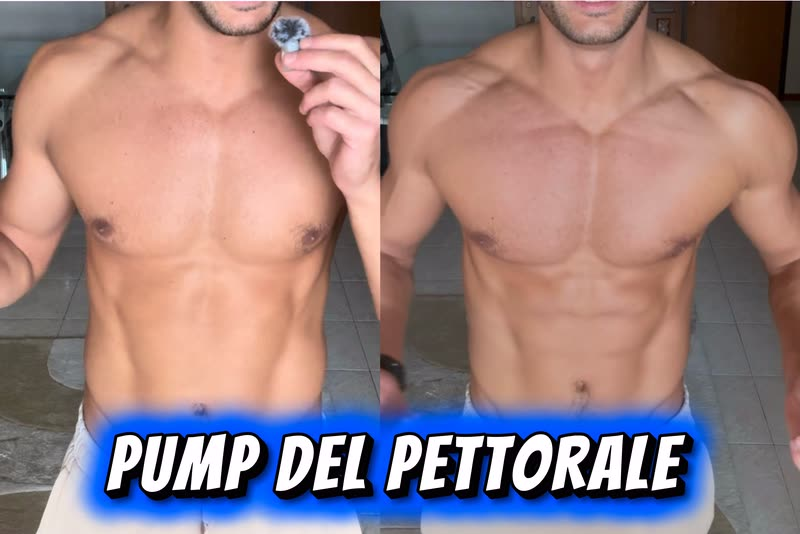
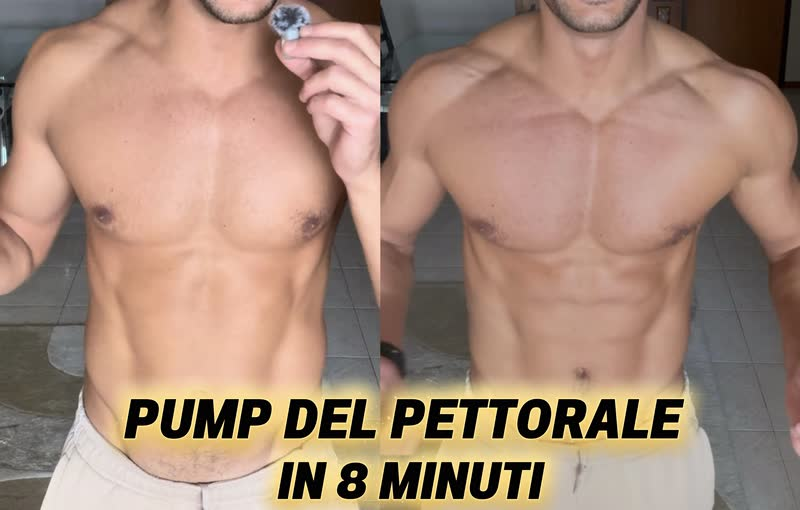
Nuova immagine di copertina

diff --git a/index.html b/index.html
@@ -6,7 +6,7 @@
 <meta name="description" content="Pump del Pettorale di Federico Corso: video-allenamento a corpo libero con un solo esercizio, la navetta. Come finisher in palestra o da solo, ovunque.">
 <meta property="og:title" content="Pump del Pettorale — Federico Corso">
 <meta property="og:description" content="Video-allenamento a corpo libero per il pettorale. 19,99 €.">
-<meta property="og:image" content="https://federicocorsod.github.io/pump-del-pettorale/img/copertina.jpg">
+<meta property="og:image" content="https://federicocorsod.github.io/pump-del-pettorale/img/copertina.jpg?v=2">
 <title>Pump del Pettorale</title>
 <link rel="stylesheet" href="fonts/fonts.css">
 <style>
@@ -48,7 +48,7 @@
   .brand a:hover, .brand a:focus-visible { text-decoration: underline; text-underline-offset: 4px; }
 
   .cover { margin: 28px 0 0; position: relative; }
-  .cover img { display: block; width: 100%; height: auto; aspect-ratio: 3 / 2; object-fit: cover; border: 1px solid var(--line); }
+  .cover img { display: block; width: 100%; height: auto; aspect-ratio: 1400 / 894; object-fit: cover; border: 1px solid var(--line); }
   .cover::after { content: ""; position: absolute; inset: 5px; border: 1px solid rgba(200,165,96,.28); pointer-events: none; }
 
   .hero { padding-block: 36px 8px; }
@@ -169,7 +169,7 @@
   </header>
 
   <figure class="cover">
-    <img src="img/copertina.jpg" srcset="img/copertina-800.jpg 800w, img/copertina.jpg 1400w" sizes="(max-width: 600px) 100vw, 560px" width="1400" height="934" alt="Pump del Pettorale: il petto di Federico Corso prima e dopo l'allenamento">
+    <img src="img/copertina.jpg?v=2" srcset="img/copertina-800.jpg?v=2 800w, img/copertina.jpg?v=2 1400w" sizes="(max-width: 600px) 100vw, 560px" width="1400" height="894" alt="Pump del Pettorale: il petto di Federico Corso prima e dopo l'allenamento">
   </figure>
 
   <section class="hero">
